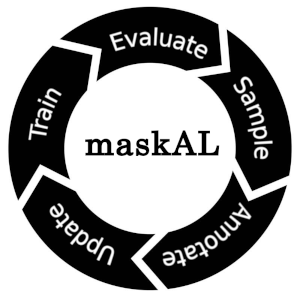
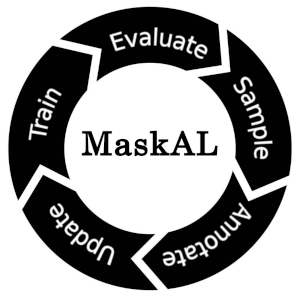
updated documentation

Changed region(s): [[0.27, 0.42, 0.75, 0.54]]

diff --git a/README.md b/README.md
@@ -1,18 +1,18 @@
-# maskAL - Active learning for Mask R-CNN in Detectron2
+# MaskAL - Active learning for Mask R-CNN in Detectron2
 
 <p align="center">
   <img src="./demo/maskAL_framework.png?raw=true" alt="maskAL_framework"/>
 </p>
 
 ## Summary
-maskAL is an active learning framework that automatically selects the most-informative images for training Mask R-CNN. By using maskAL, it is possible to reduce the number of image annotations, without negatively affecting the performance of Mask R-CNN. Generally speaking, maskAL involves the following steps:
+MaskAL is an active learning framework that automatically selects the most-informative images for training Mask R-CNN. By using MaskAL, it is possible to reduce the number of image annotations, without negatively affecting the performance of Mask R-CNN. Generally speaking, MaskAL involves the following steps:
 1. Train Mask R-CNN on a small initial subset of a bigger dataset
 2. Use the trained Mask R-CNN algorithm to make predictions on the unlabelled images of the remaining dataset
 3. Select the most-informative images with a sampling algorithm
 4. Annotate the most-informative images, and then retrain Mask R-CNN on the most informative-images
 5. Repeat step 2-4 for a specified number of sampling iterations <br/><br/>
 
-The figure below shows the performance improvement of maskAL on our dataset. By using maskAL, the performance of Mask R-CNN improved more quickly and therefore 1400 annotations could be saved (see the black dashed line):
+The figure below shows the performance improvement of MaskAL on our dataset. By using MaskAL, the performance of Mask R-CNN improved more quickly and therefore 1400 annotations could be saved (see the black dashed line):
 
 ![maskAL_graph](./demo/maskAL_vs_random.png?raw=true)
 
@@ -21,7 +21,7 @@ See [INSTALL.md](INSTALL.md)
 <br/> <br/>
 
 ## Data preparation and training
-Split the dataset in a training set, validation set and a test set. It is not required to annotate every image in the training set, because maskAL will select the most-informative images automatically. <br/> 
+Split the dataset in a training set, validation set and a test set. It is not required to annotate every image in the training set, because MaskAL will select the most-informative images automatically. <br/> 
 
 1. From the training set, a smaller initial dataset is randomly sampled (the dataset size can be specified in the **maskAL.yaml** file). The images that do not have an annotation are placed in the **annotate** subfolder inside the image folder. You first need to annotate these images with LabelMe (json), V7-Darwin (json), Supervisely (json) or CVAT (xml) (when using CVAT, export the annotations to **LabelMe 3.0** format). Refer to our annotation procedure: [ANNOTATION.md](ANNOTATION.md) 
 2. Step 1 is repeated for the validation set and the test set (the file locations can be specified in the **maskAL.yaml** file). 
@@ -30,15 +30,15 @@ Split the dataset in a training set, validation set and a test set. It is not re
 5. OPTIONAL: it is possible to use the trained Mask R-CNN model to auto-annotate the unlabelled images to further reduce annotation time. Activate **auto_annotate** in the **maskAL.yaml** file, and specify the **export_format** (currently supported formats: **'labelme'**, **'cvat'**, **'darwin'**, **'supervisely'**). 
 6. Step 3-5 are repeated for several training iterations. The number of iterations (**loops**) can be specified in the **maskAL.yaml** file.
 
-Please note that maskAL does not work with the default COCO json-files of detectron2. These json-files contain all annotations that are completed before the training starts. Because maskAL involves an iterative train and annotation procedure, the default COCO json-files lack the desired format.
+Please note that MaskAL does not work with the default COCO json-files of detectron2. These json-files contain all annotations that are completed before the training starts. Because MaskAL involves an iterative train and annotation procedure, the default COCO json-files lack the desired format.
 <br/><br/>
 
-## How to use maskAL
+## How to use MaskAL
 Open a terminal (Ctrl+Alt+T):
 ```console
-(base) user@computer:~$ cd maskAL
-(base) user@computer:~/maskAL$ conda activate maskAL
-(maskAL) user@computer:~/maskAL$ python maskAL.py --config maskAL.yaml
+(base) user@computer:~$ cd maskal
+(base) user@computer:~/maskal$ conda activate maskAL
+(maskAL) user@computer:~/maskal$ python maskAL.py --config maskAL.yaml
 ```
 <br/>
 Change the following settings in the maskAL.yaml file: <br/>
@@ -111,4 +111,4 @@ Two software functions were inspired by the software of RovelMan: <br/>
 https://github.com/RovelMan/active-learning-framework<br/> <br/>
 
 ## Contact
-maskAL is developed and maintained by Pieter Blok. <br/> <br/>
+MaskAL is developed and maintained by Pieter Blok. <br/> <br/>

diff --git a/INSTALL.md b/INSTALL.md
@@ -63,7 +63,7 @@ export LD_LIBRARY_PATH=/usr/local/cuda-11.1/lib64${LD_LIBRARY_PATH:+:${LD_LIBRAR
 - nvcc --version *(should the CUDA details)*<br/> <br/>
 
 
-## 2.) Install maskAL in a virtual environment (using Anaconda)
+## 2.) Install MaskAL in a virtual environment (using Anaconda)
 Tested with: Pytorch 1.8.0 & torchvision 0.9.0 (Ubuntu 16.04/18.04 and CUDA 10.1) and Pytorch 1.7.1 & torchvision 0.8.2 (Ubuntu 20.04 and CUDA 11.1)<br/>
 
 **2.1) Download and install Anaconda:**
@@ -75,8 +75,8 @@ Tested with: Pytorch 1.8.0 & torchvision 0.9.0 (Ubuntu 16.04/18.04 and CUDA 10.1
 - conda activate maskAL <br/> <br/>
 
 **2.3) Download the code repository:**
-- git clone https://github.com/pieterblok/maskAL.git
-- cd maskAL <br/> <br/>
+- git clone https://github.com/pieterblok/maskal.git
+- cd maskal <br/> <br/>
 
 **2.4) Install the required software libraries (in the maskAL virtual environment, using the terminal):**
 - *for cuda 10.1:* pip install -U torch==1.8.0 torchvision==0.9.0 -f https://download.pytorch.org/whl/cu101/torch_stable.html 
